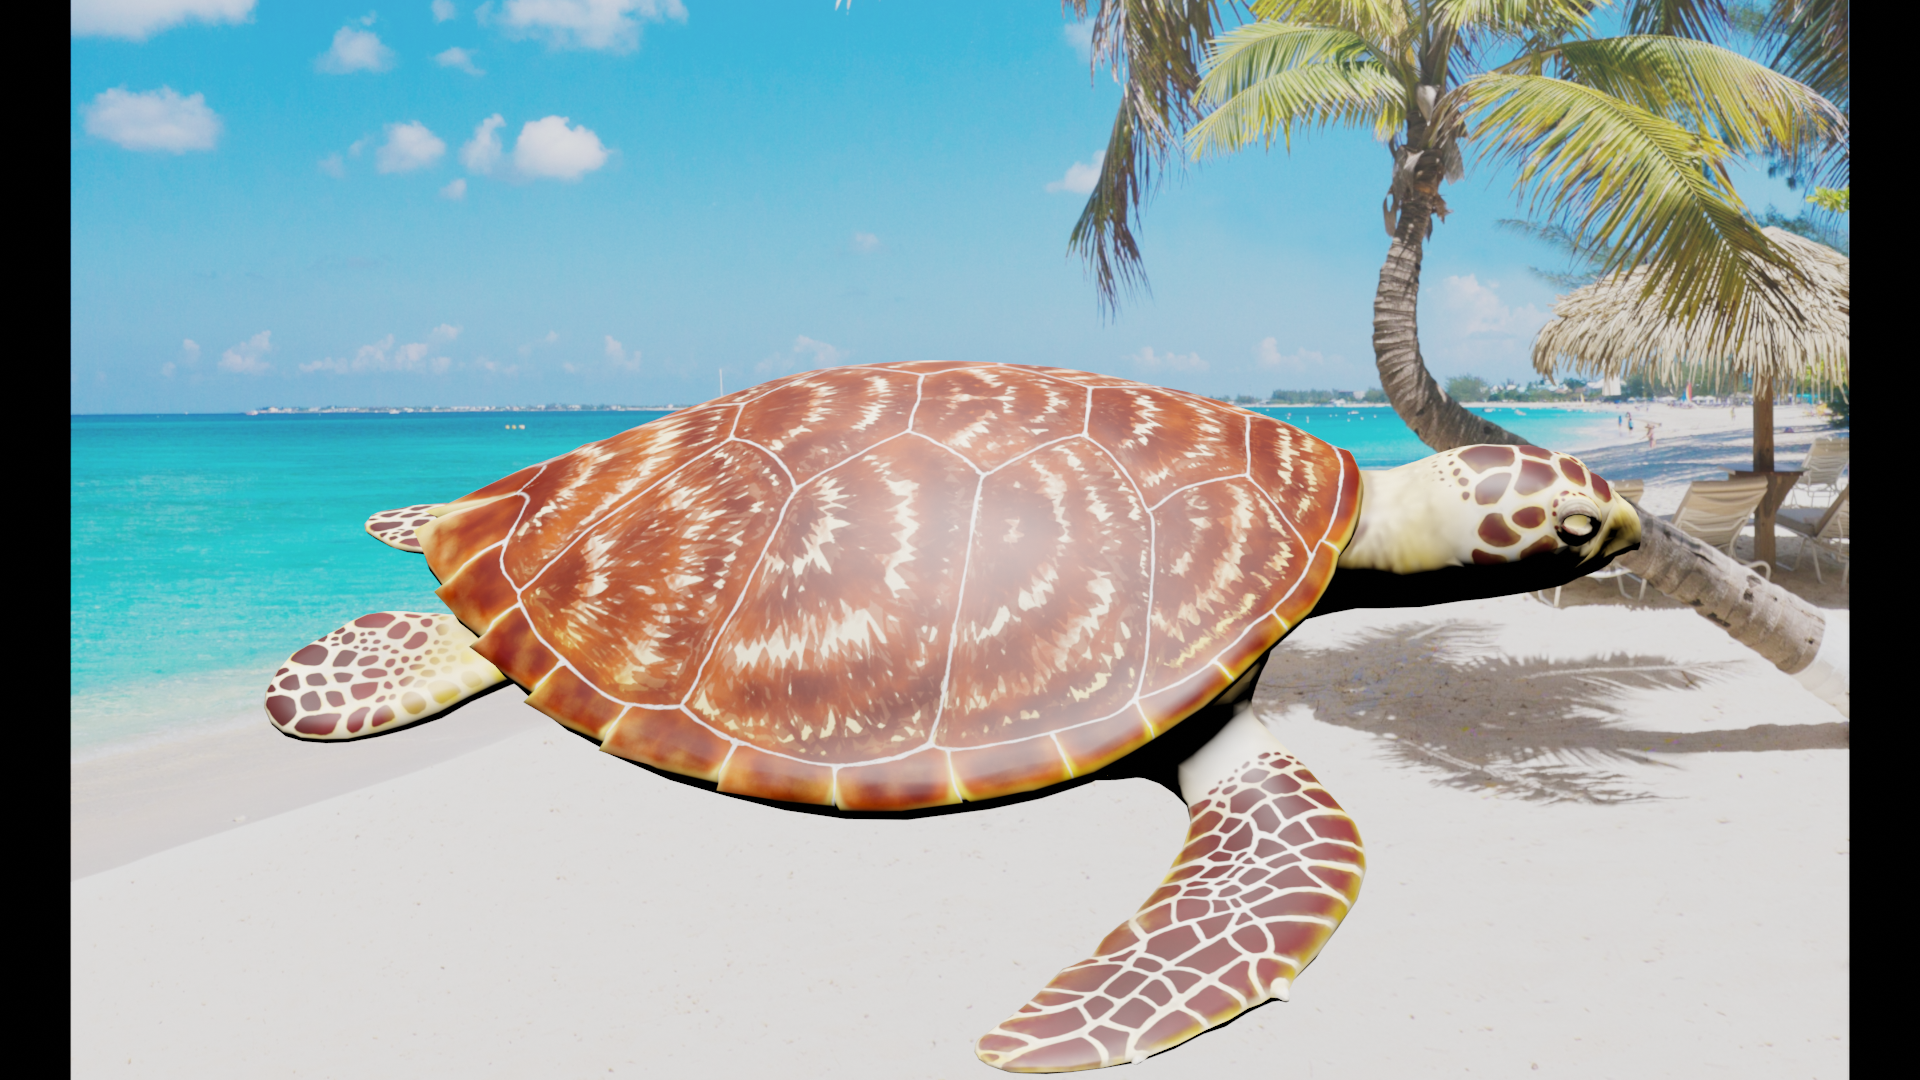
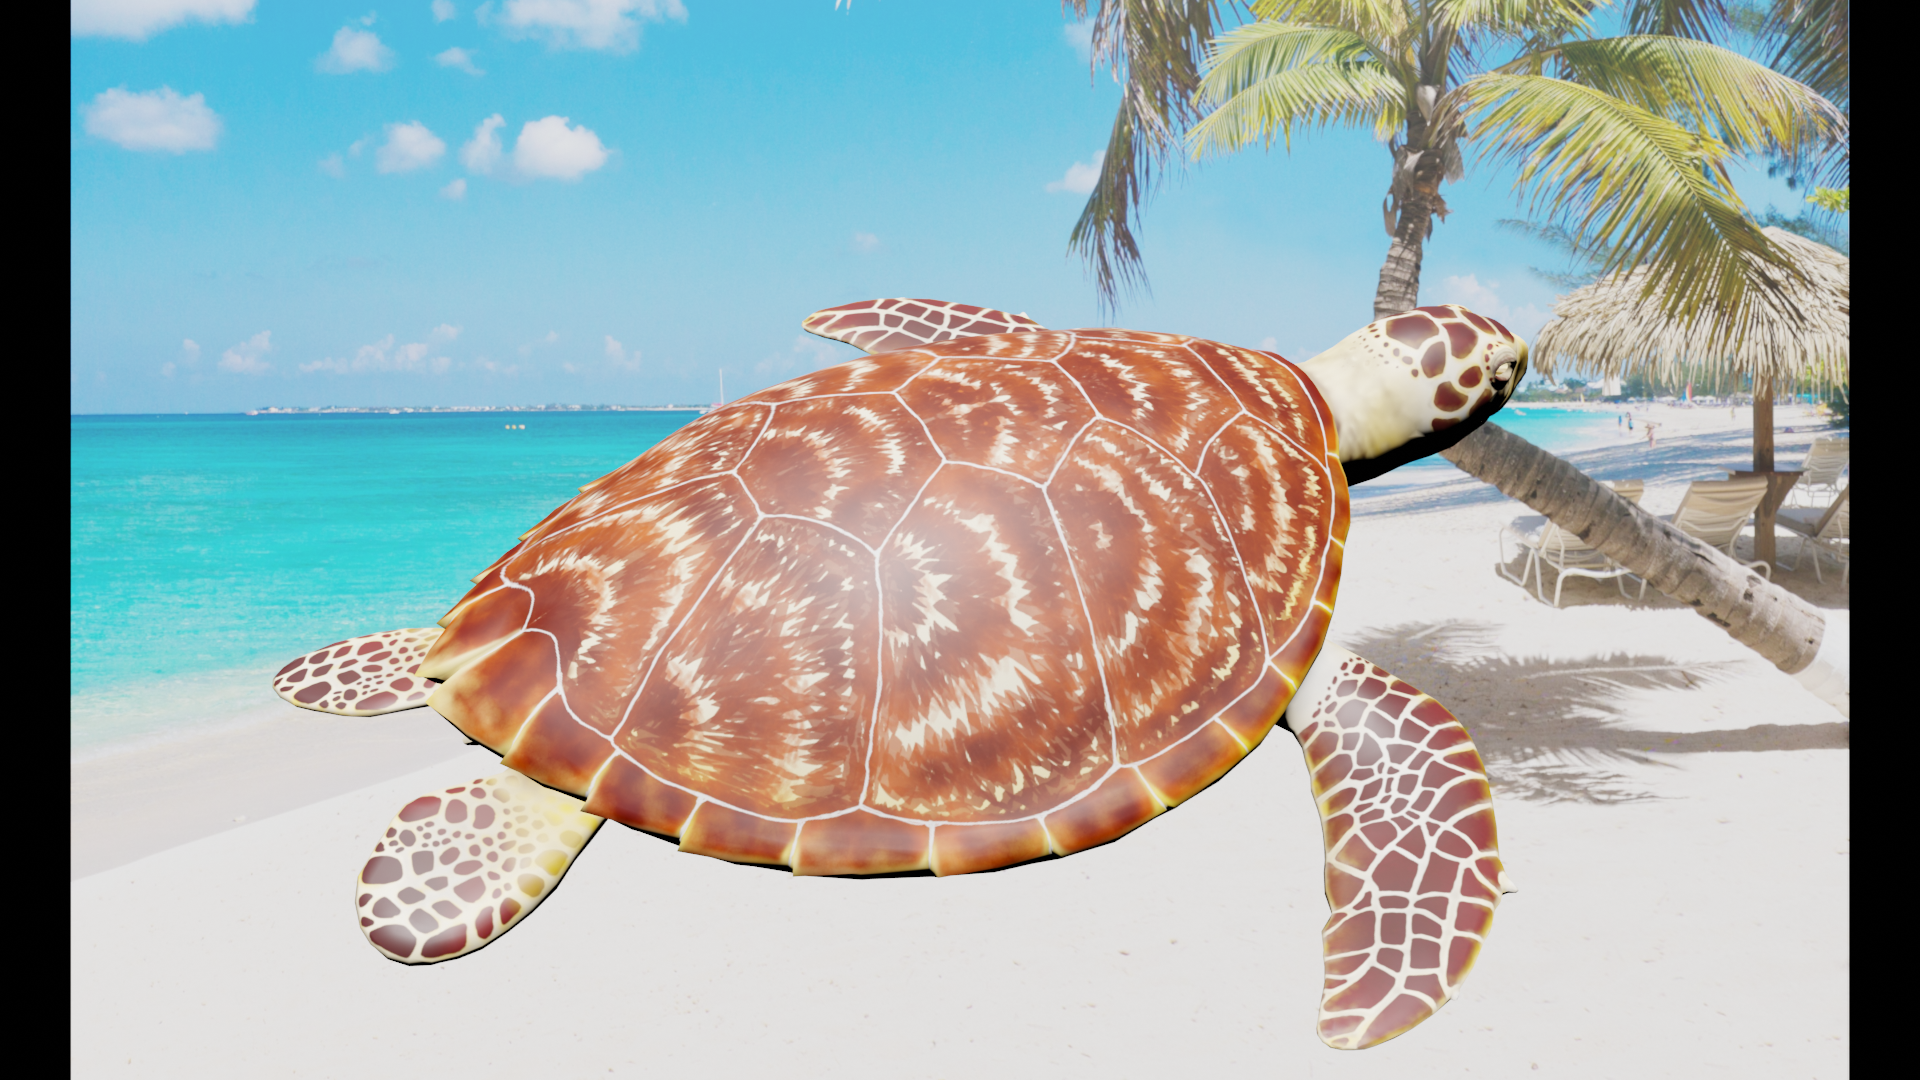
Update README with new flags Update SynthBlend to generate images between angle constraints

Changed region(s): [[0.125, 0.275, 0.875, 1.0]]

diff --git a/synthblend.py b/synthblend.py
@@ -27,7 +27,12 @@ parser = argparse.ArgumentParser(prog='synthblend', description='Render syntheti
 parser.add_argument('-m', '--models', dest='models_directory', type=str)
 parser.add_argument('-b', '--backgrounds', dest='backgrounds_directory', type=str)
 parser.add_argument('-r', '--renders', dest='renders_directory', type=str)
+parser.add_argument('-ra', '--radius', dest='radius', type=float)
 parser.add_argument('-rc', '--render_count', dest='render_count', type=int)
+parser.add_argument('-pmin', '--phi_min', dest='phi_min', type=float)
+parser.add_argument('-pmax', '--phi_max', dest='phi_max', type=float)
+parser.add_argument('-tmin', '--theta_min', dest='theta_min', type=float)
+parser.add_argument('-tmax', '--theta_max', dest='theta_max', type=float)
 parser.add_argument('-w', '--work', dest='work_directory', type=str, required=True)
 args = parser.parse_known_args(argv)[0]
 
@@ -38,6 +43,13 @@ backgrounds_directory = args.backgrounds_directory if args.backgrounds_directory
 models_directory = args.models_directory if args.models_directory else '/models/'
 renders_directory = args.renders_directory if args.renders_directory else '/renders/'
 render_count = args.render_count if args.render_count else 0
+radius = args.radius if args.radius else 4
+
+# Define the angle constraints 
+phi_min = args.phi_min if args.phi_min else 0.
+phi_max = args.phi_max if args.phi_max else math.pi / 2.
+theta_min = args.theta_min if args.theta_min else 0.
+theta_max = args.theta_max if args.theta_max else 2. * math.pi
 
 # Clear the current scene
 bpy.ops.wm.read_factory_settings(use_empty=True)
@@ -83,9 +95,8 @@ else:
   
 # Choose a random spherical coordinate to assign the camera and
 # the background image to
-phi = random.random() * math.pi / 2.
-theta = random.random() * 2 * math.pi
-radius = 4
+phi = (phi_max - phi_min) * random.random() + phi_min
+theta = (theta_max - theta_min) * random.random() + theta_min
 
 # Convert the spherical coordinates to Cartesian coordinates
 x = radius * math.sin(phi) * math.cos(theta)

diff --git a/README.md b/README.md
@@ -16,8 +16,28 @@ $ .\blender -b --python C:\synthblend\synthblend.py -- -w C:\synthblend\synthble
 ```
 This will generate an image taken from a random angle, and output it to ```C:\synthblend\renders\```
 
-## Additional Flags
-You must run the synthblend method via the command line. In order to do so, you must first change directory into the location of your blender install. There, run the command ```.\blender -b --python <LOCATION OF SYNTHBLEND.PY> -- <ADDITIONAL ARGUMENTS>```. In the additional arguments, you must at least specify the working directory, i.e., where the ```synthblend.py``` script and the backgrounds, models, and renders directories are located. You may also specify unique names for the backgrounds, models, and renders directories via the flags ```-b```, ```-m```, and ```-r```, respectively. 
+## Flags
+You must run the synthblend method via the command line. In order to do so, you must first change directory into the location of your blender install. There, run the command ```.\blender -b --python <LOCATION OF SYNTHBLEND.PY> -- <ADDITIONAL ARGUMENTS>```. In the additional arguments, you must at least specify the working directory, i.e., where the ```synthblend.py``` script and the backgrounds, models, and renders directories are located. The flags for this command line tool are 
+```-w | --work ```
+Specifies the working directory (where to find the other subdirectories)
+```-b | --backgrounds ```
+Specifies the directory under the working directory where the background images can be found
+```-m | --models ```
+Specifies the directory under the working directory where the .dae models and their associated meshes can be found
+```-r | --renders ```
+Specifies the directory under the working directory where the final renders will be outputted
+```-ra | --radius ```
+Specifies the spherical coordinate radius about which the camera-background system rotates
+```-rc | --render_count ```
+Specifies the current count of the renders generated. **NOTE** This will not create more renders, this is only useful as a naming convention when generating large amounts of synthetic data. 
+```-pmin | --phi_min ```
+Specifies the minimum angle phi (angle from the vertical), in radians, to rotate the camera-background system. Must be between 0 and pi / 2, inclusive.
+```-pmax | --phi_max ```
+Specifies the maximum angle phi (angle from the vertical), in radians, to rotate the camera-background system. Must be between 0 and pi / 2, inclusive.
+```-tmin | --theta_min ```
+Specifies the minimun angle theta (angle about the horizontal), in radians, to rotate the camera-background system. Must be between 0 and 2 * pi, inclusive.
+```-tmax | --theta_max ```
+Specifies the maximum angle theta (angle about the horizontal), in radians, to rotate the camera-background system. Must be between 0 and 2 * pi, inclusive.
 
 ## Model Directory Structure
 Although there is some degree of lee-way in how you choose to organize your directories, the models directory is strict in terms of how files and subdirectories within it should be formatted. Within the models directory, models should be made available in the ```.dae``` file format. Additionally, each ```.dae``` object should have the same name as its accompanying file. Otherwise, blender will not be able to locate the object. To specify the meshes applicable to each object, create a directory within the models directory that shares the same name as the ```.dae``` file. In this directory that contains the meshes to be applied at random to the ```.dae``` model, the naming conventions for the image formats does not matter.
